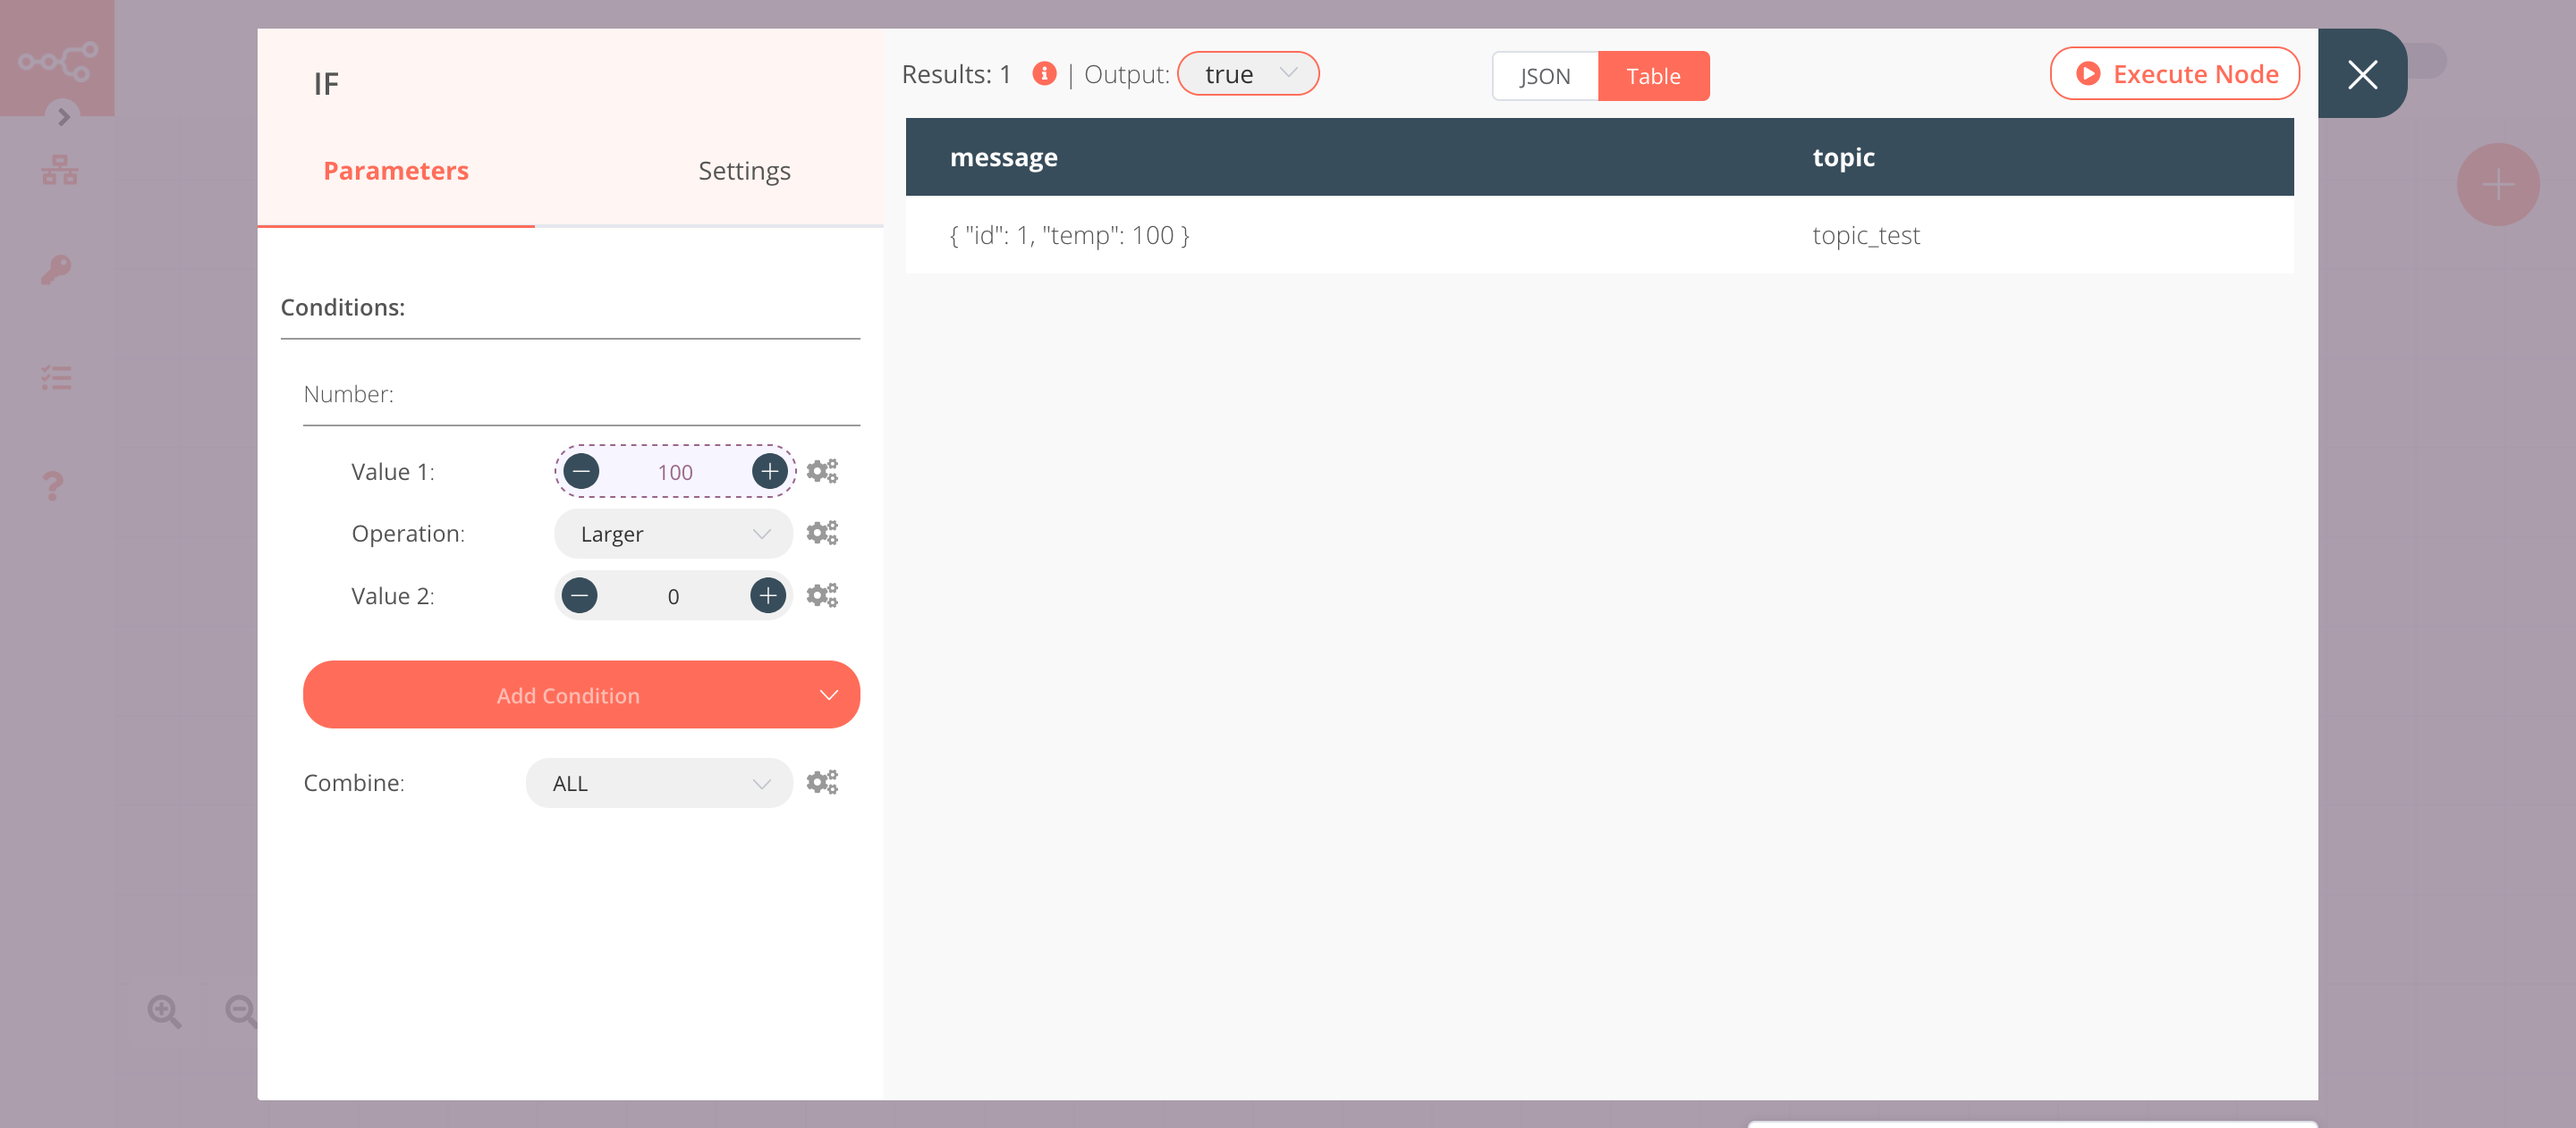
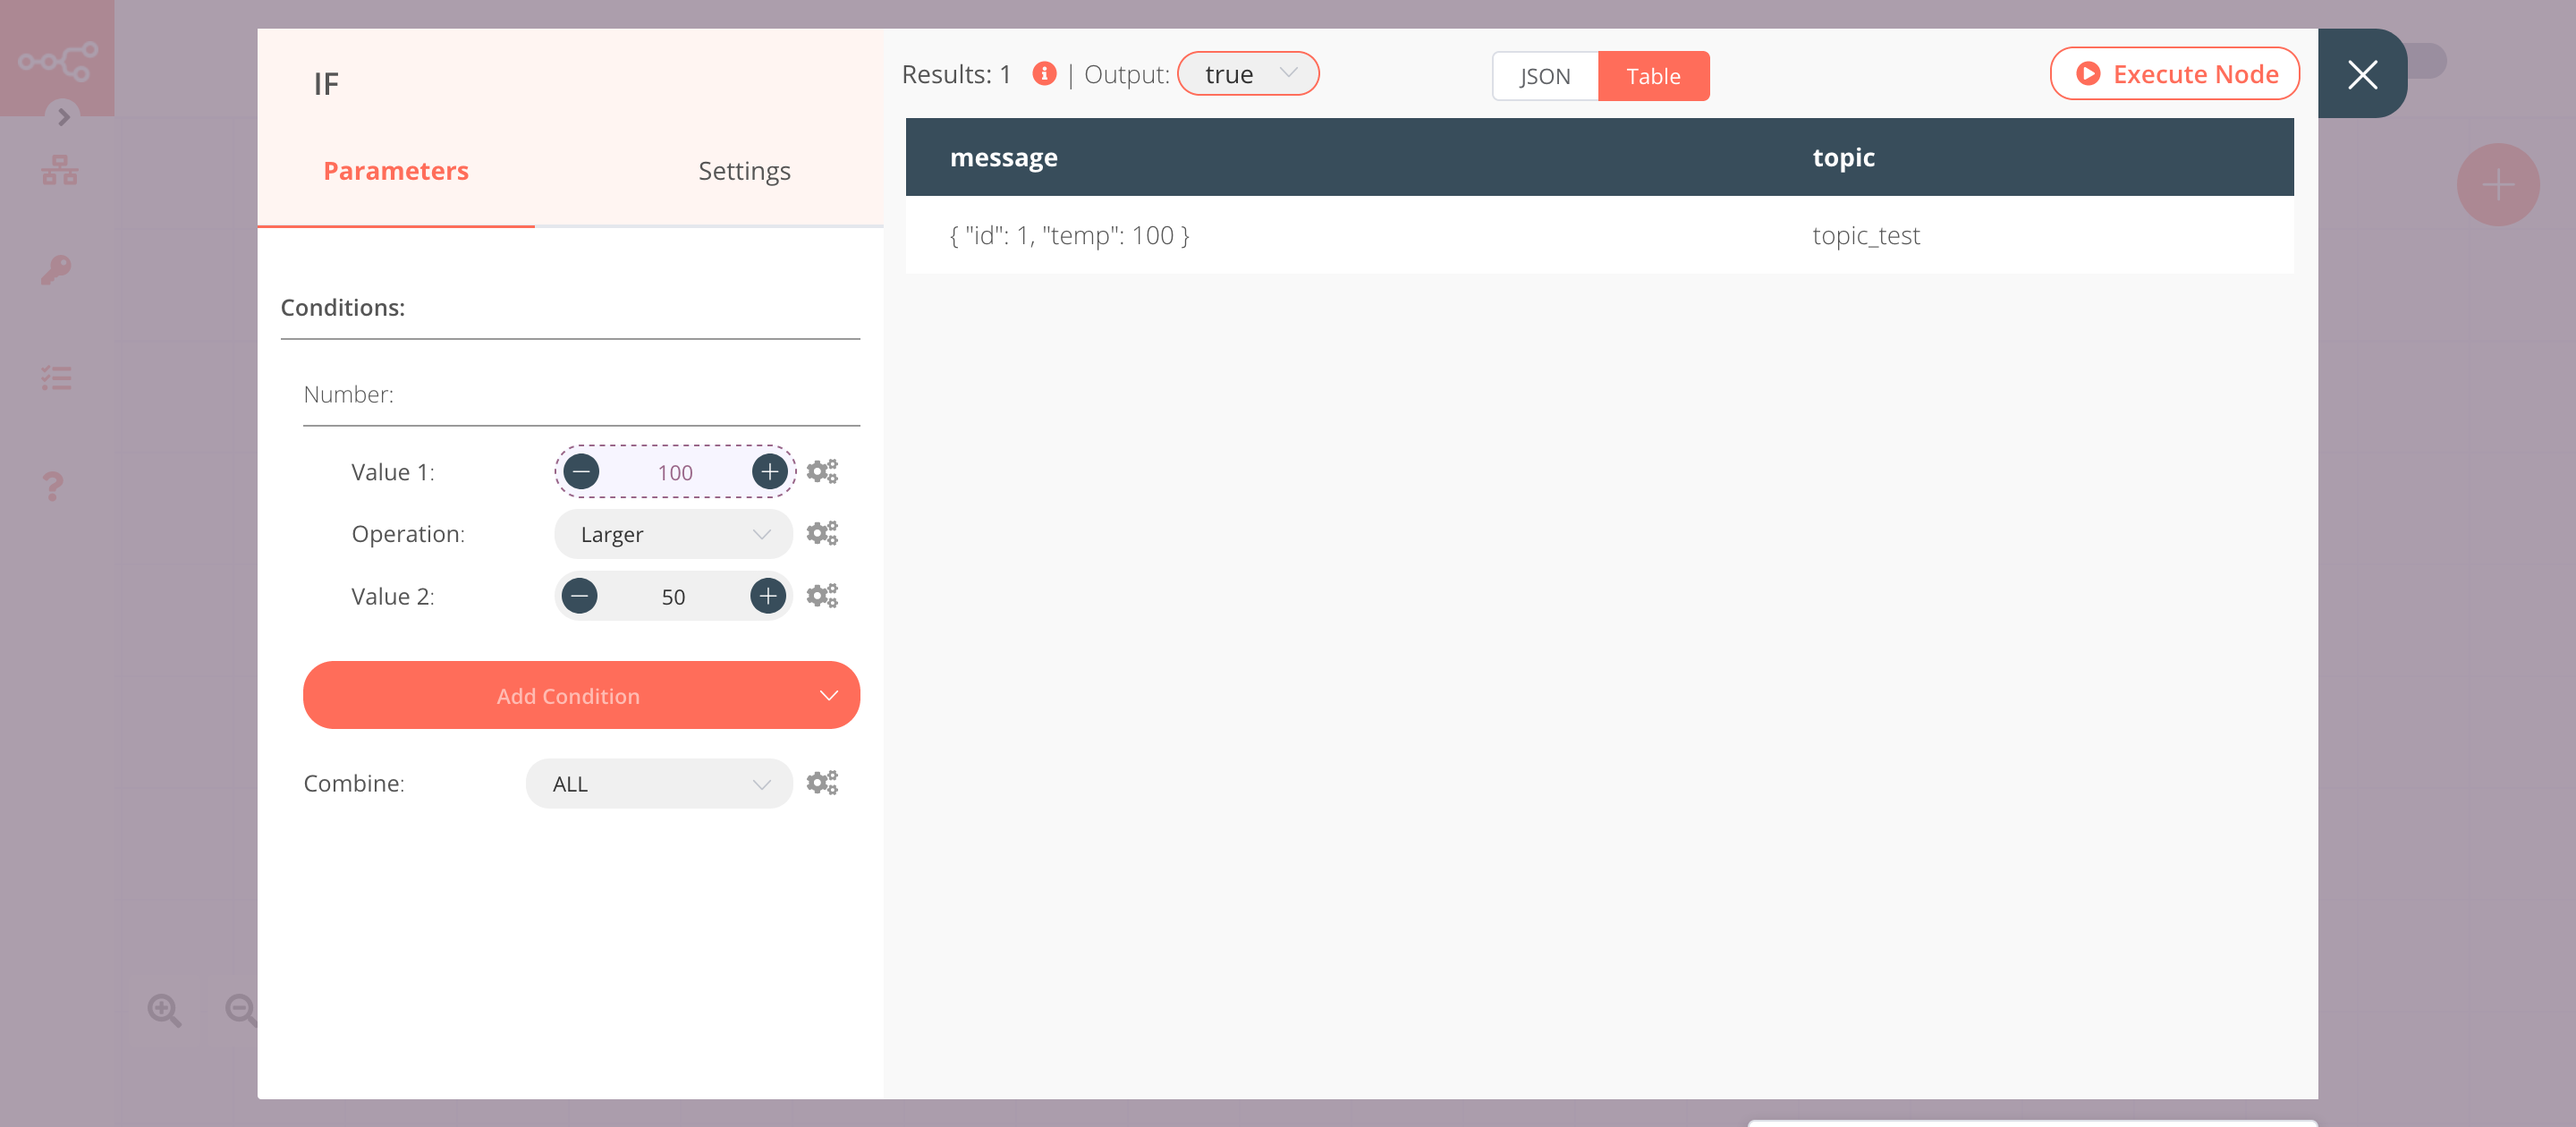
🔨Minor changes

Changed region(s): [[0.2188, 0.4643, 0.25, 0.4952], [0.125, 0.681, 0.1562, 0.7119]]

diff --git a/docs/nodes/nodes-library/trigger-nodes/KafkaTrigger/README.md b/docs/nodes/nodes-library/trigger-nodes/KafkaTrigger/README.md
@@ -27,7 +27,7 @@ The final workflow should look like the following image.
 
 ### 1. Kafka Trigger node
 
-This node will trigger the workflow when a new message is sent to the topic `test_topic`. If you're using a different topic, use that instead.
+This node will trigger the workflow when a new message is sent to the topic `test_topic`. If you're using a different topic, use that instead. We are sending the message `{ "id": 1, "temp": 100 }` to `test_topic`.
 
 1. First of all, you'll have to enter credentials for the Kafka Trigger node. You can find out how to do that [here](../../../credentials/Kafka/README.md).
 2. Enter the name of the topic in the ***Topic*** field.
